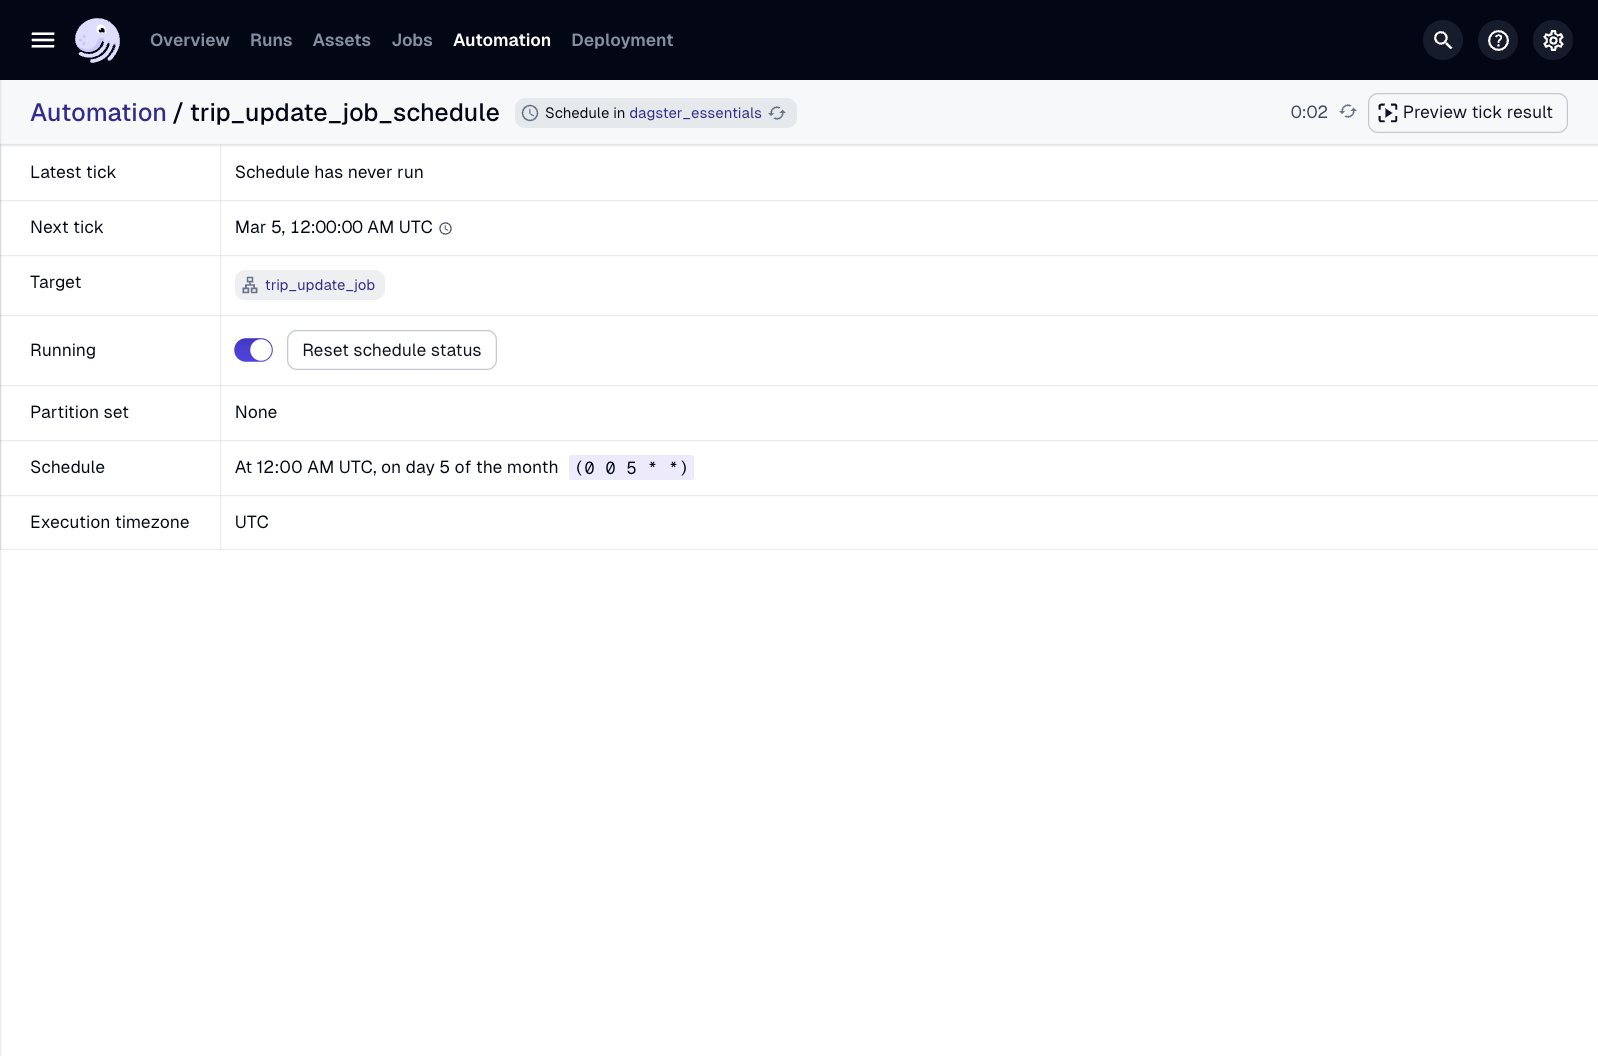
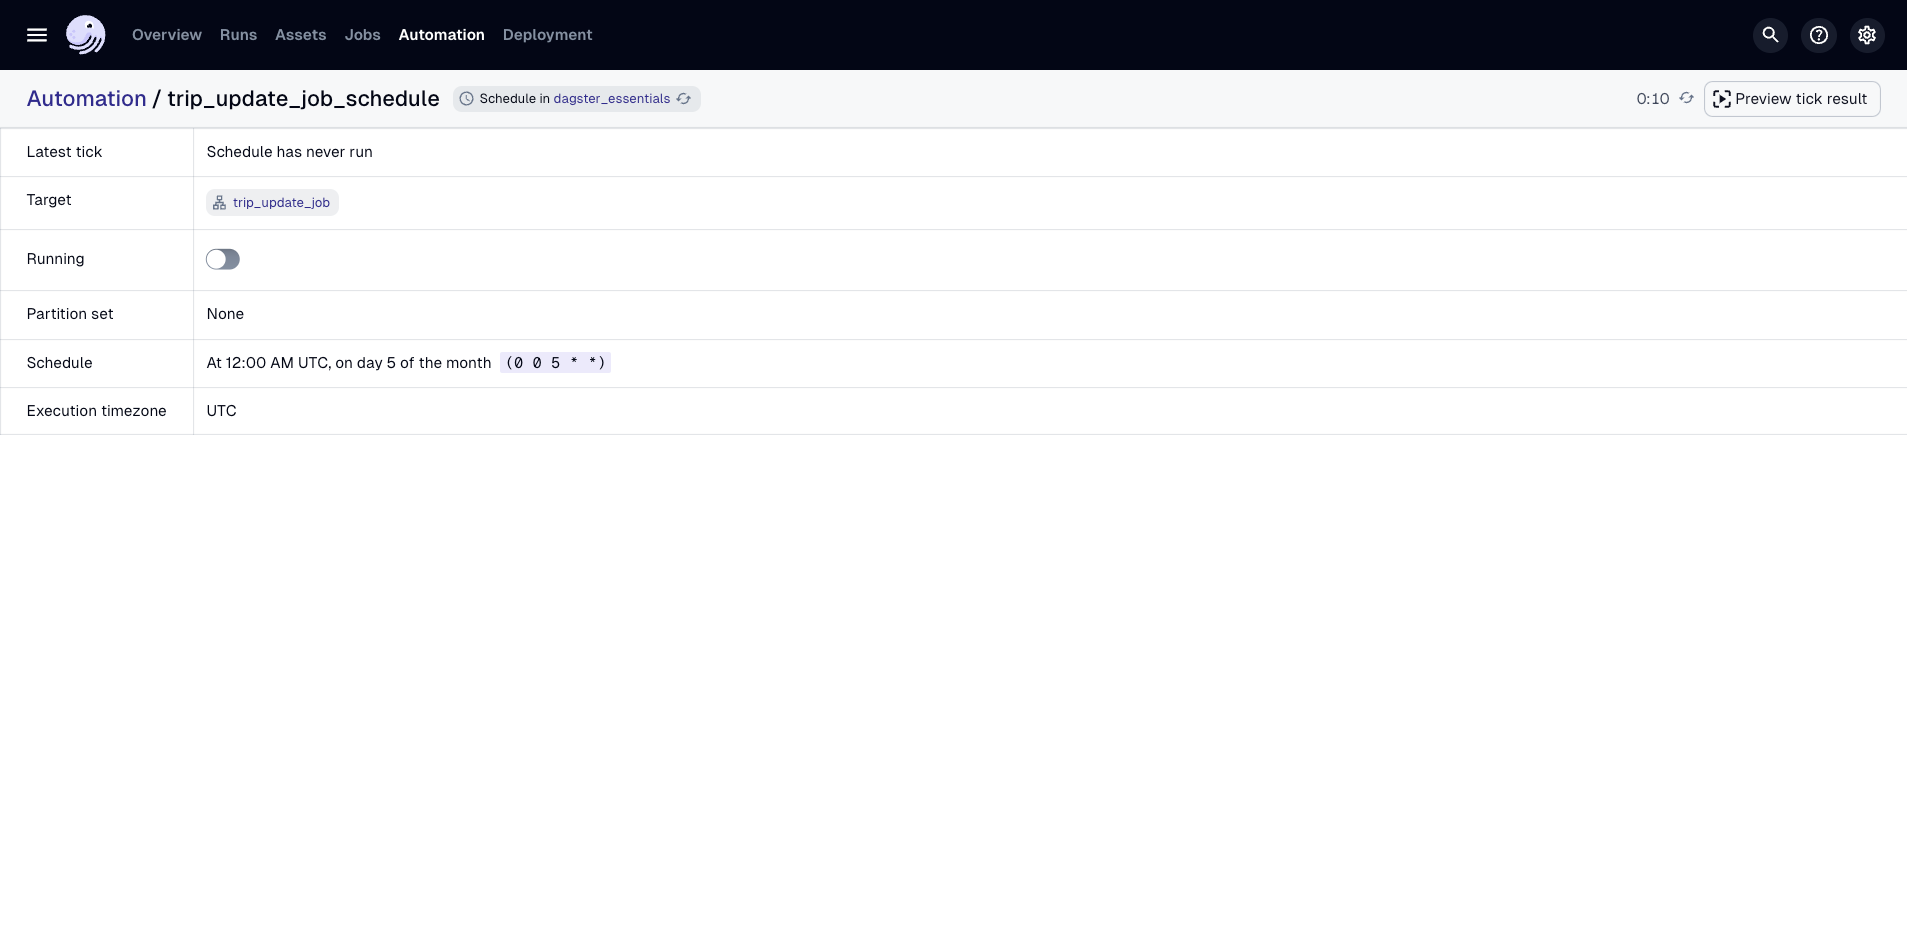
Update testing schedule/sensor (#93)

diff --git a/course/pages/dagster-essentials/lesson-7/jobs-schedules-dagster-ui.md b/course/pages/dagster-essentials/lesson-7/jobs-schedules-dagster-ui.md
@@ -25,8 +25,7 @@ To ensure the jobs and schedules are visible, **reload the definitions** before 
 - {% width="60%" %}
   To view the jobs in the UI, you can:
 
-  - Click **Overview > Jobs**, or
-  - Click **Deployment**, then click on a code location. Click the **Jobs tab**.
+  - Click **Jobs**.
 
   The table in the **Jobs** tab contains the following info:
 
@@ -113,7 +112,7 @@ To ensure the jobs and schedules are visible, **reload the definitions** before 
 ---
 
 - {% width="60%" %}
-  To test a schedule, use the **Test Schedule** button in the upper-right corner of the page. This can be handy when a schedule doesn’t run very often or you want to make sure a schedule is working correctly.
+  To test a schedule, use the **Preview tick result** button in the upper-right corner of the page. This can be handy when a schedule doesn’t run very often or you want to make sure a schedule is working correctly.
 
 - ![The Test Schedule button highlighted in the Schedule details page](/images/dagster-essentials/lesson-7/ui-test-schedule.png) {% rowspan=2 %}
 
@@ -128,7 +127,7 @@ To ensure the jobs and schedules are visible, **reload the definitions** before 
 - {% width="60%" %}
   After the button is clicked, you’ll be prompted to select a mock evaluation time.
 
-  Click **Evaluate** to run the test.
+  Click **Continue** to run the test.
 
 - ![Mock evaluation time selection](/images/dagster-essentials/lesson-7/ui-mock-evaluation-time.png) {% rowspan=2 %}
 

diff --git a/course/pages/dagster-essentials/lesson-9/enabling-the-sensor.md b/course/pages/dagster-essentials/lesson-9/enabling-the-sensor.md
@@ -39,9 +39,11 @@ As sensors are turned off by default, you'll need to enable the sensor to be abl
 
   1. If you navigated away from the **Sensor details** page for the `adhoc_request_sensor`, navigate back to it before continuing.
 
-  2. On this page, click the **Test Sensor** button near the top-right of the page. This allows you to produce a single tick without turning the sensor on.
+  2. On this page, click the **Preview tick result** button near the top-right of the page. This allows you to produce a single tick without turning the sensor on.
 
-  3. Click **Evaluate** to begin the test.
+  3. We can set the cursor value for the sensor. This allows the sensor to pick up from a specific point. For this test, we can start from the beginning so click **Continue**.
+
+  4. Click **Launch all & commit tick result** to begin the test.
 
 - ![The Test Sensor dialog in the Dagster UI](/images/dagster-essentials/lesson-9/ui-test-sensor-dialog.png) {% rowspan=2 %}
 
